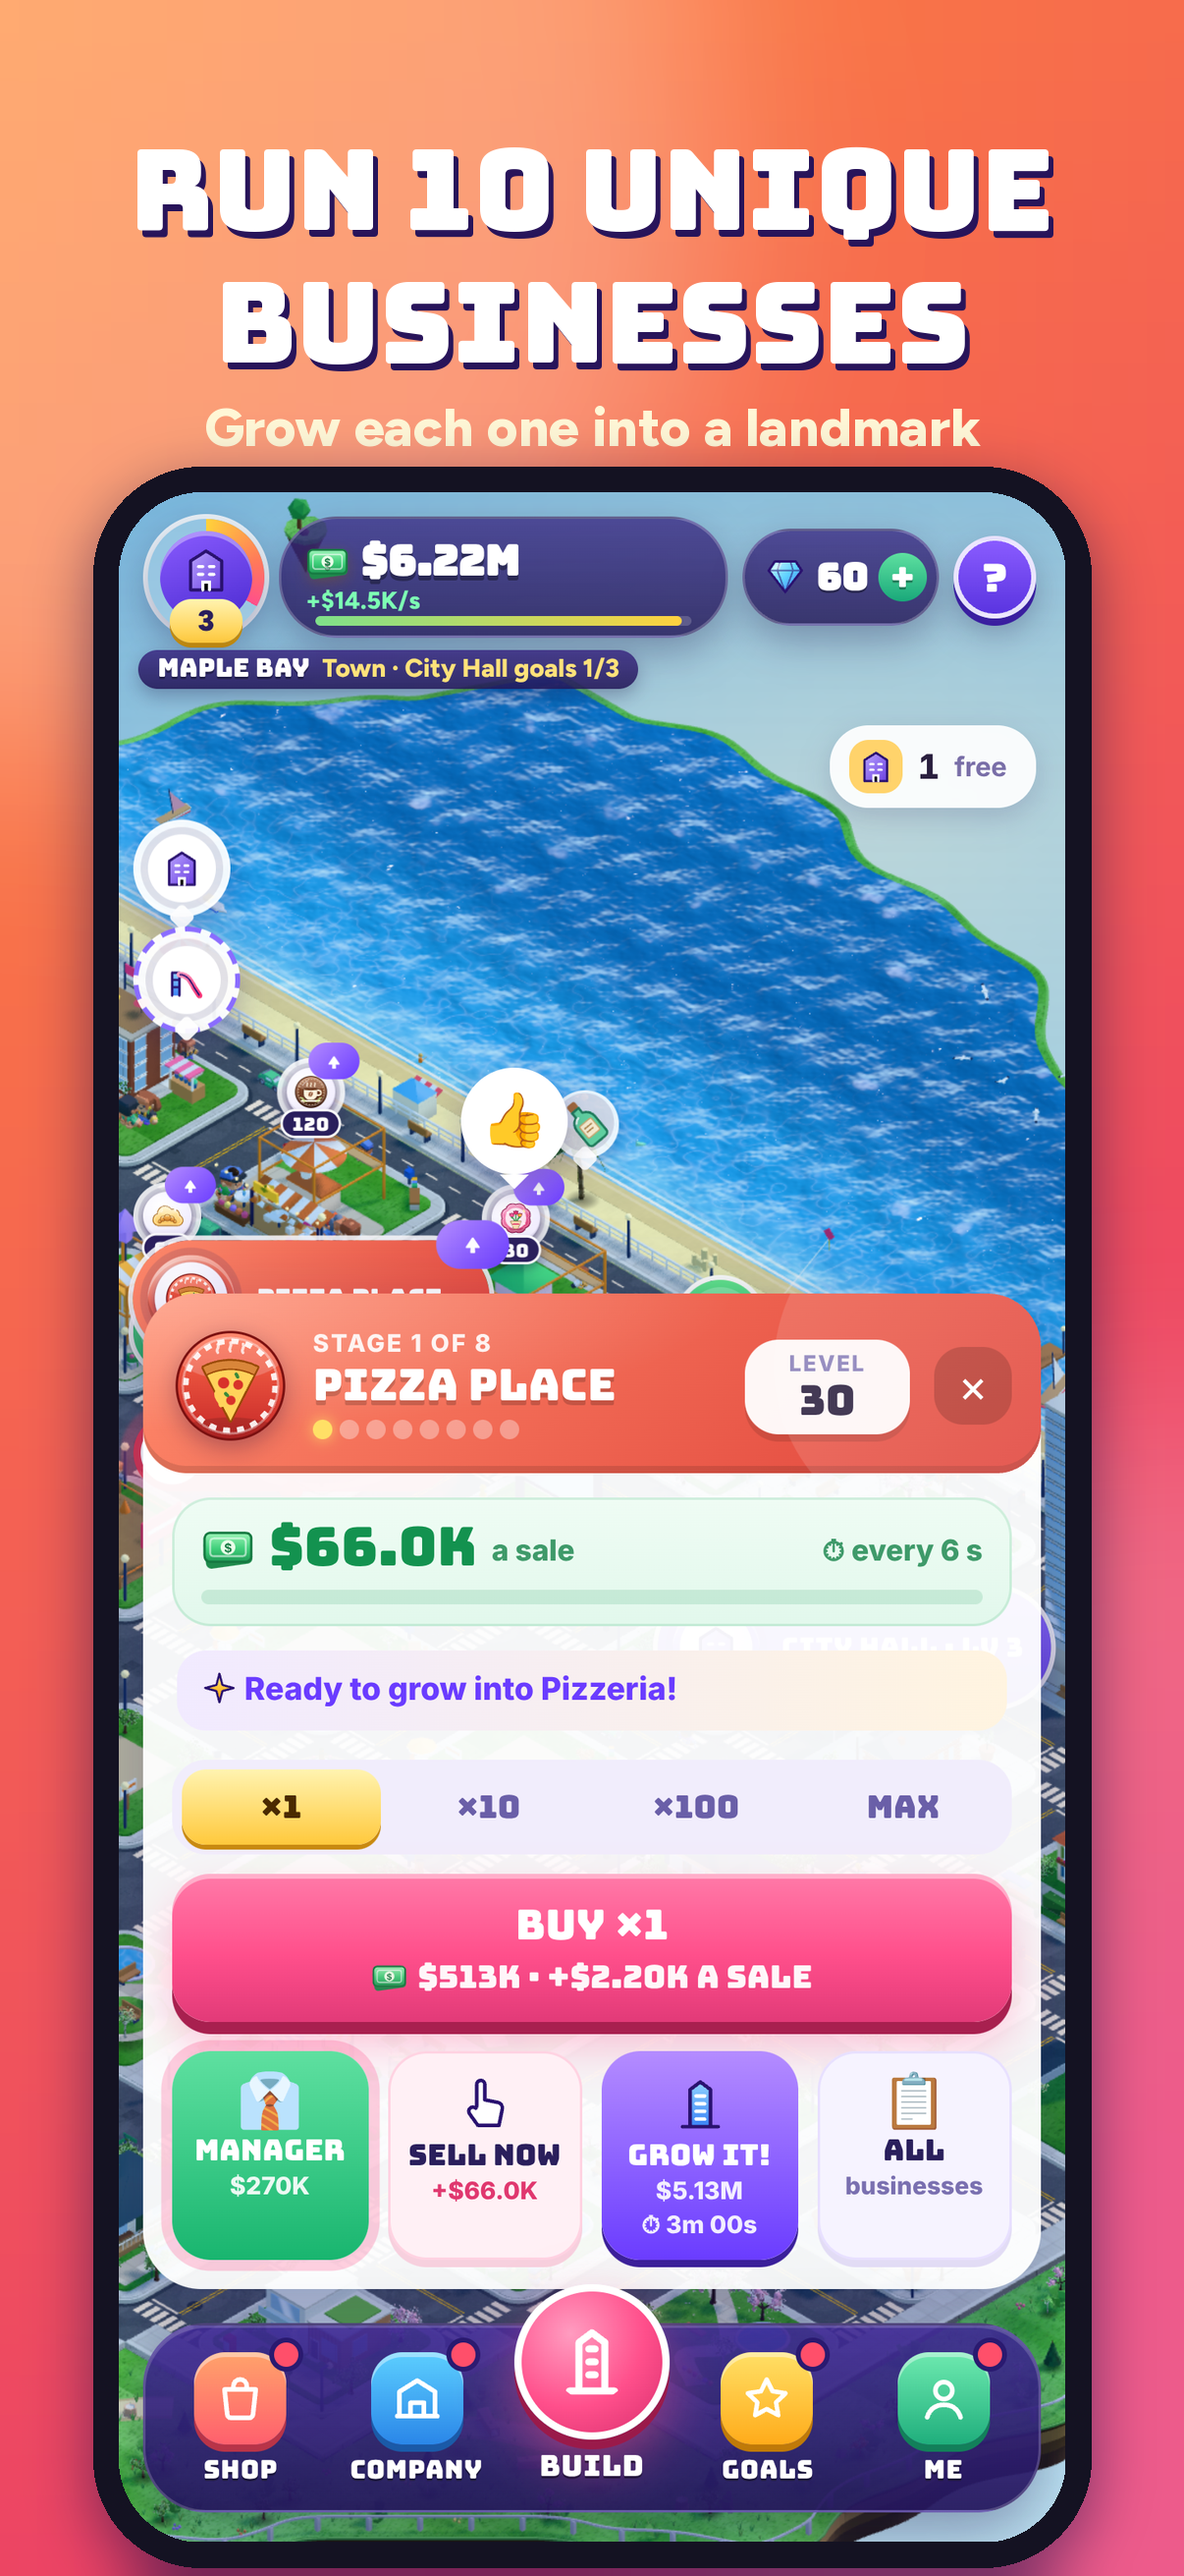
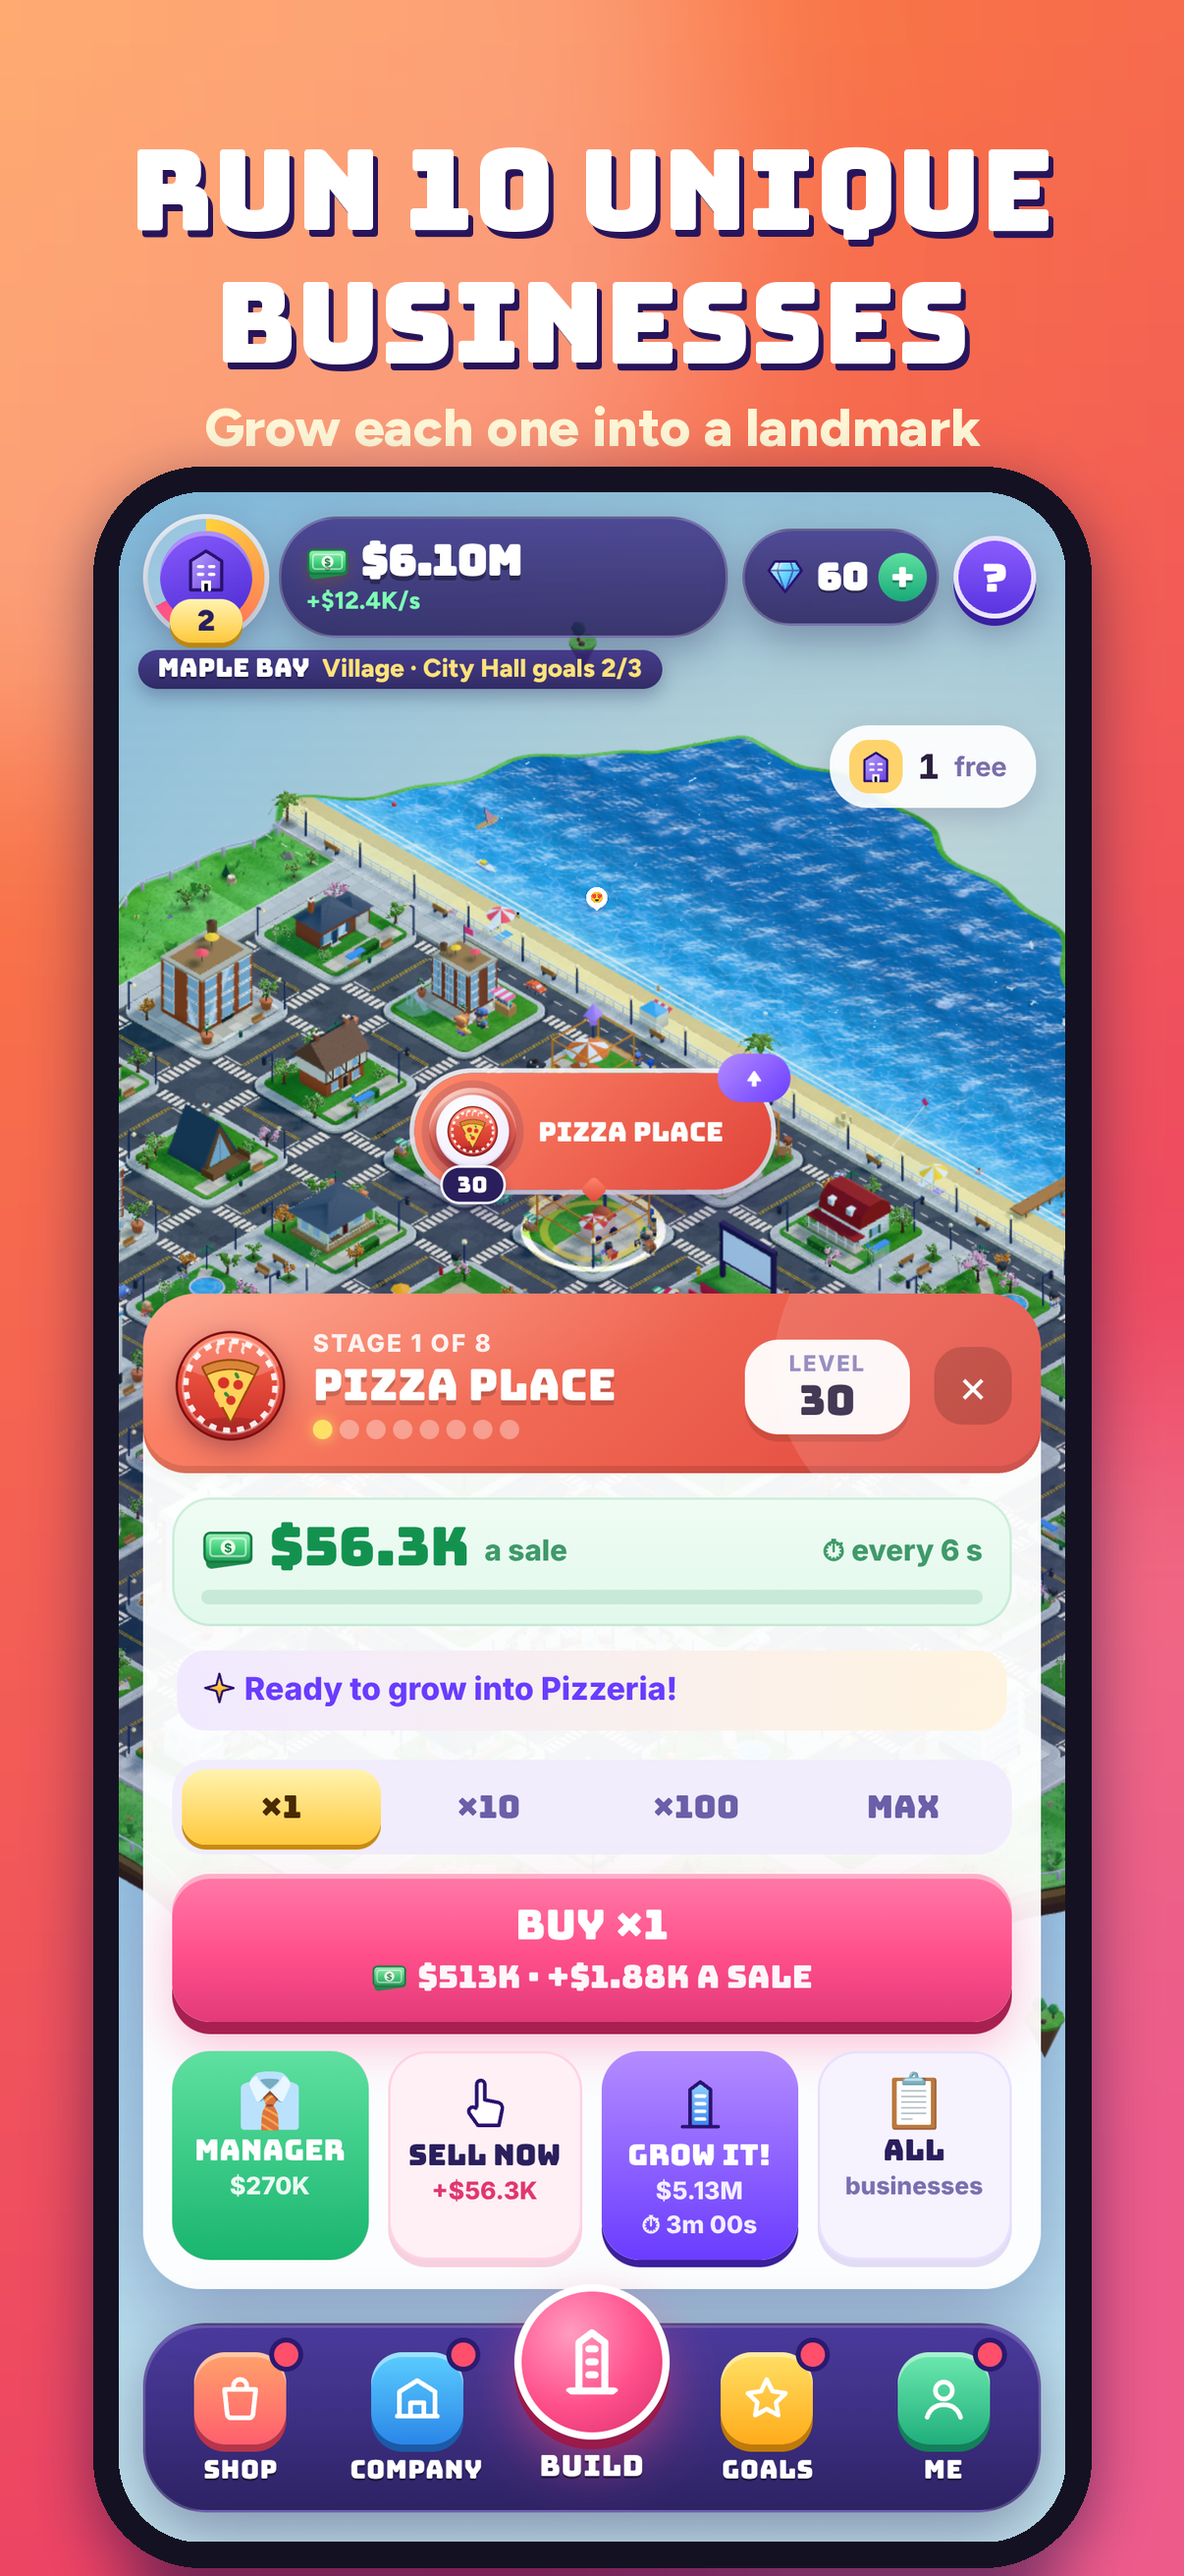
Buildaroo: new store screenshots and server redeploy note
Six new store images for every size: the town, seasons, businesses,
decorating, friends' cities and City Hall. The worker notes say how to
redeploy for the city board and shared towns.

Claude-Session: https://claude.ai/code/session_01JdA1eqtJ6Z5CbdZzjTcCvj

diff --git a/launch/stores/buildaroo/README.md b/launch/stores/buildaroo/README.md
@@ -1,15 +1,15 @@
 # Buildaroo store screenshots
 
-Six screenshots, in this order, for both stores. Every image shows the real game
-(a daytime town named "Maple Bay"), with a caption at the top.
+Six screenshots, in this order, for both stores. Every image shows the real game (a town
+named "Maple Bay"), with a caption at the top.
 
 | # | File | Caption | Subtitle |
 |---|------|---------|----------|
 | 1 | 1-town | BUILD YOUR OWN CITY | Start from one coffee cart |
-| 2 | 2-streets | WATCH IT COME ALIVE | More homes, busier streets |
+| 2 | 2-seasons | EVERY SEASON IS A FESTIVAL | Snow, blossoms, pumpkins and more |
 | 3 | 3-business | RUN 10 UNIQUE BUSINESSES | Grow each one into a landmark |
-| 4 | 4-home | EVERY BUILDING HAS A PURPOSE | Homes bring customers and rent |
-| 5 | 5-neighbour | HELP YOUR NEIGHBOURS | Requests that pay in crystals |
+| 4 | 4-decorate | DECORATE IT YOUR WAY | Parks, fountains, even a stadium |
+| 5 | 5-friends | VISIT FRIENDS' CITIES | Climb the city leaderboard |
 | 6 | 6-hall | LEVEL UP CITY HALL | Each level unlocks something new |
 
 ## Where each set goes

diff --git a/server/README.md b/server/README.md
@@ -92,6 +92,14 @@ To turn it on, when you decide to release it:
 
 Nothing else changes for players who haven't updated.
 
+## Buildaroo: friends' towns and the city board (new, needs a redeploy)
+
+The city game shares each player's town with their friend code (`POST /city`, now with a
+`town` part) and ranks the shared towns on `GET /cityboard?by=people|hall`. Nothing new to
+set up in the database: it reads the `cities` table that's already there. Until the worker
+is redeployed, visits still work for old shares and the board says it can't reach the
+server. To turn it on, from this folder: `npx wrangler deploy`.
+
 ## The studio report (optional)
 `npx wrangler secret put STATS_KEY` with a long password only the studio knows, then
 `npx wrangler deploy`. Read it with
